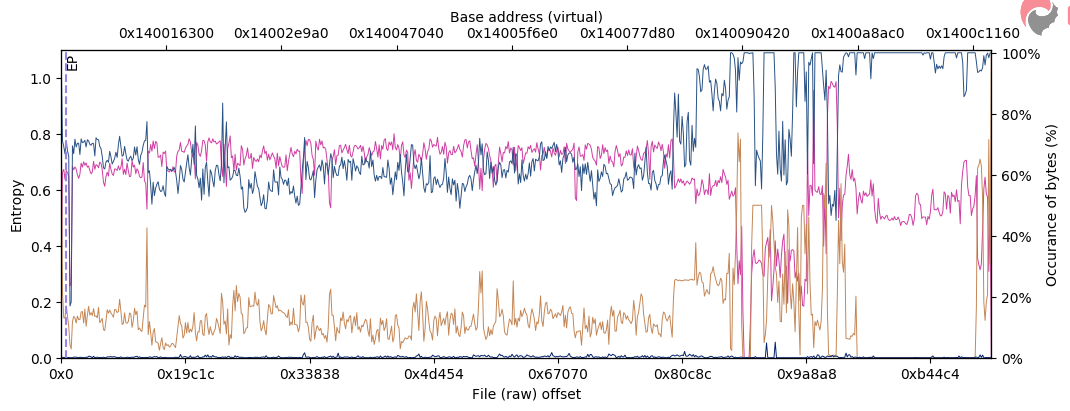
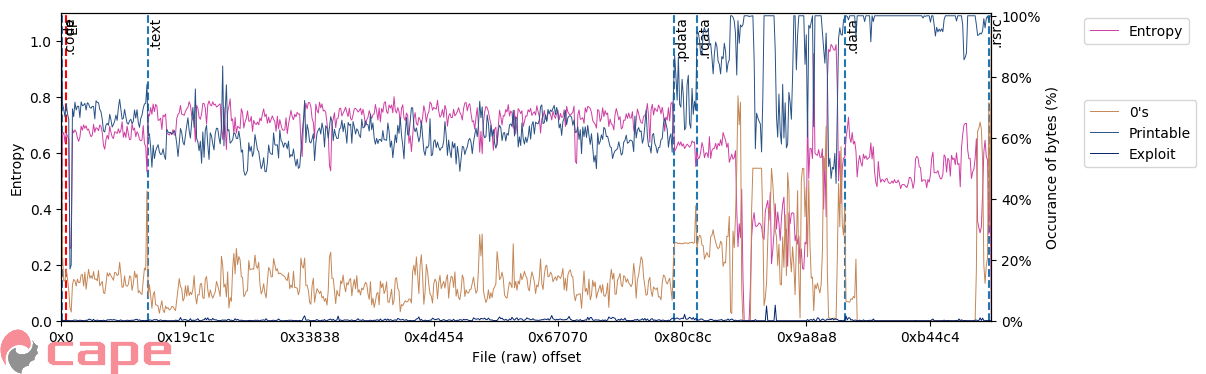
Added legend

Changed region(s): [[0.0, 0.0, 1.0, 1.0]]

diff --git a/exeGraph_mpl.py b/exeGraph_mpl.py
@@ -261,13 +261,13 @@ def file_ent(binname, frmt='png', figname=None, figsize=(12,4), chunks=750, ibyt
         # # Entrypoint (EP) pointer and vline
         v_ep = exebin.optional_header.addressof_entrypoint/chunksize
         axEnt.axvline(x=v_ep, linestyle='--', c='r')
-        axEnt.text(x=v_ep, y=1.05, s='EP', rotation=90)
+        axEnt.text(x=v_ep, y=1.12, s='EP', rotation=90, verticalalignment='bottom', horizontalalignment='center')
 
         # # Section vlines
         for section in exebin.sections:
             raw_section_offset = section.pointerto_raw_data/chunksize
-            axEnt.axvline(x=raw_section_offset, label=section.name, linestyle='--')
-            axEnt.text(x=raw_section_offset, y=1.05, s=section.name, rotation=90)
+            axEnt.axvline(x=raw_section_offset, linestyle='--')
+            axEnt.text(x=raw_section_offset, y=1.12, s=section.name, rotation=90, verticalalignment='bottom', horizontalalignment='center')
 
 
         # # Set the virtual size axis
@@ -282,12 +282,14 @@ def file_ent(binname, frmt='png', figname=None, figsize=(12,4), chunks=750, ibyt
 
 
 
-    # # Customise the plt
-    # plt.axis([0,len(shannon_samples)-1, 0,1])
-    # plt.xlabel('Raw offset')
-    # plt.ylabel('Entropy')
+    # # Add legends
+    if len(ibytes) > 0:
+        axEnt.legend(loc=(1.1, 0.9))
+    else:
+        axEnt.legend(loc=(1.02, 0.9))
 
-    # plt.legend(loc='center left', bbox_to_anchor=(1, 0.5))
+    if len(ibytes) > 0:
+        axBytePc.legend(loc=(1.1, 0.5))
 
 
     logo = plt.imread('cape.png')
@@ -299,15 +301,15 @@ def file_ent(binname, frmt='png', figname=None, figsize=(12,4), chunks=750, ibyt
 if __name__ == '__main__':
 
     # ## Input file
-    filename='mal/aa14c8e777-cape'
+    # filename='mal/aa14c8e777-cape'
     # filename='mal/test.exe'
     # filename='mal/Locky.bin.mal'
     # filename='mal/Shamoon-bin.mal'
     # filename='mal/Win32.Sofacy.A.bin.mal'
-    filename='mal/upxed.exe'
+    # filename='mal/upxed.exe'
     # filename='mal/cape-9480-d746baede2c7'
     filename='mal/cape-9472-d69be688e'
-    filename='/bin/bash'
+    # filename='/bin/bash'
     # filename='mal/bytehist.exe'
     # filename='section_byte_occurance_histogram.png'
 
